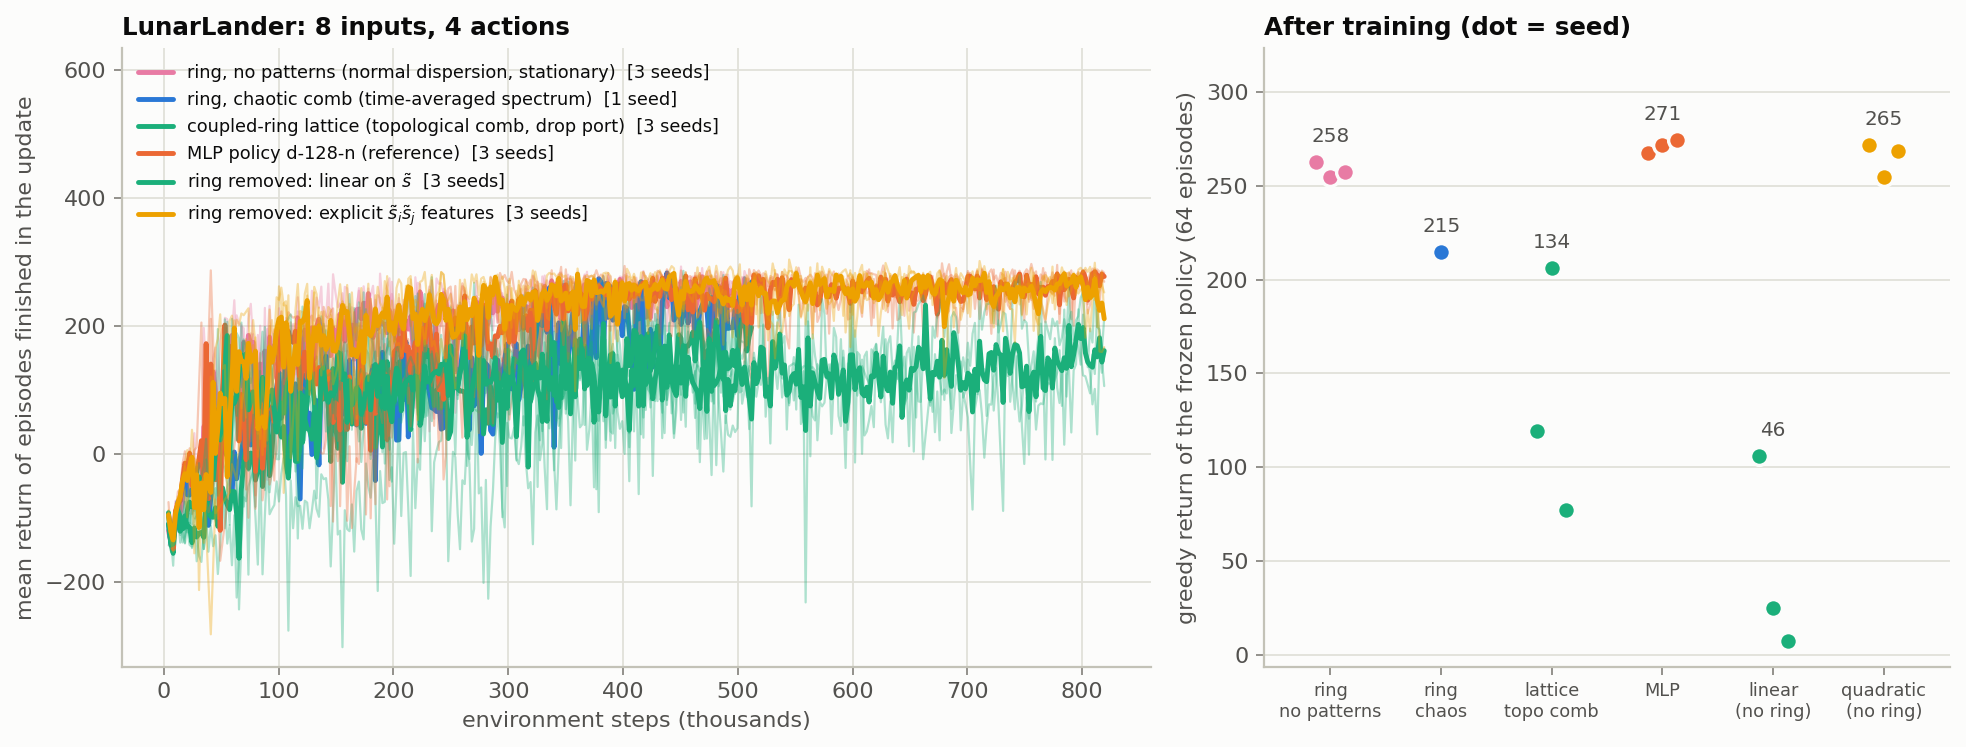
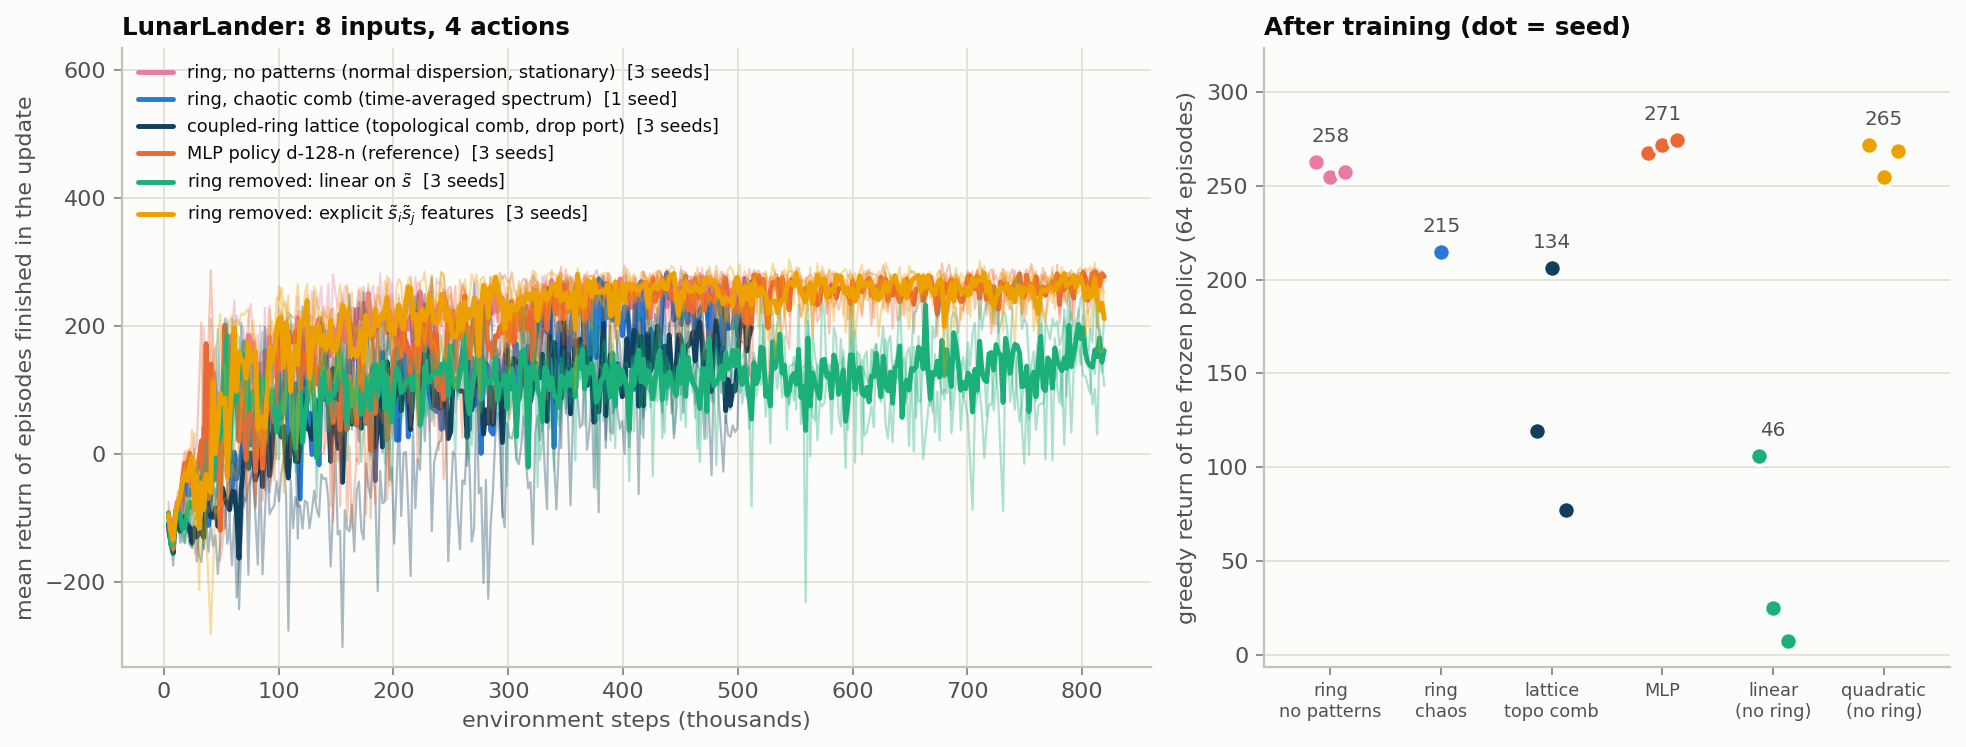
fix lattice colours (they collided with linear/poly2); training-curve panel
mr_topo had reused AQUA = linear and mr_topo_chaos YELLOW = poly2. New slots
NAVY #123f5c / BROWN #7a4f14, validated in OKLab against every co-plotted
colour (deltaE >= 19.6 normal, >= 15.4 under Machado CVD simulation; the
palette's 8 validated slots were all taken, originals left untouched).
animate_topo gains a static training-curve panel (raw + smoothed return, this
episode and the frozen eval marked); all four animations re-rendered.

diff --git a/animate_topo.py b/animate_topo.py
@@ -5,8 +5,10 @@ Animate a trained --regime topo policy: one greedy episode next to the physics t
     python animate_topo.py --env Pendulum-v1 ...
     python animate_topo.py --env LunarLander-v3 ...
 
-Three panels, one frame per control step:
+Five panels, one frame per control step:
   left   : the episode (cart+pole / pendulum / lunar lander) and the chosen action
+  second : the training curve of this seed (static -- the replayed episode sits at the END
+           of it), with this episode's return and the frozen evaluation marked
   middle : the 4x4 Hafezi lattice, two globally comparable encodings on one mark.
            SIZE   = each ring's absolute power sum_m |a_{r,m}|^2, log scale over 3 decades:
                     the static structure (edge transport from "in" to "out").
@@ -24,6 +26,8 @@ frozen calibration statistics, and one lane of the persistent lattice state.
 """
 
 import argparse
+import json
+import os
 
 import matplotlib.pyplot as plt
 import numpy as np
@@ -193,10 +197,20 @@ def panel_lunar(ax):
 
 PANELS = {"CartPole-v1": panel_cartpole, "Pendulum-v1": panel_pendulum, "LunarLander-v3": panel_lunar}
 
+# ------------------------------------------------------------------- training curve data
+# the result json has the full log + frozen evaluation; a checkpoint of a still-running
+# seed has the log up to its last save
+res_file = f"results/ppo/{short}/mr_{args.regime}_seed{args.seed}.json"
+rlog = json.load(open(res_file)) if os.path.exists(res_file) else c["log"]
+upd = rlog["updates"]
+lc_x = np.array([u["env_steps"] for u in upd]) / 1e3
+lc_y = np.array([u["mean_return"] for u in upd], dtype=float)
+lc_eval = rlog.get("eval", {}).get("mean")
+
 # ------------------------------------------------------------------------------- figure
 frames = range(0, T, args.every)
-fig, (ax_task, ax_lat, ax_spec, ax_comb) = plt.subplots(
-    1, 4, figsize=(15.0, 3.6), gridspec_kw=dict(width_ratios=[1.35, 1.0, 1.15, 1.1]))
+fig, (ax_task, ax_lc, ax_lat, ax_spec, ax_comb) = plt.subplots(
+    1, 5, figsize=(17.2, 3.6), gridspec_kw=dict(width_ratios=[1.35, 0.85, 1.0, 1.15, 1.1]))
 kind = "chaotic topological comb" if args.regime == "topo_chaos" else "topological frequency comb"
 fig.suptitle(f"{kind.capitalize()} (4×4 Hafezi lattice) as the {short} policy",
              x=0.02, ha="left", fontsize=12, fontweight="semibold")
@@ -204,6 +218,25 @@ draw_task = PANELS[args.env](ax_task)
 ax_task.set_title("the task: greedy trained policy", fontsize=10)
 step_txt = ax_task.text(0.02, 0.97, "", transform=ax_task.transAxes, fontsize=9,
                         color=ps.INK2, va="top")
+
+# training-curve panel (static: the replayed episode sits at the end of this curve)
+ok = ~np.isnan(lc_y)
+ax_lc.plot(lc_x[ok], lc_y[ok], color=ps.BLUE, lw=1, alpha=0.35)
+if ok.sum() > 7:                                                  # rolling mean over valid updates
+    w = 7
+    smooth = np.convolve(lc_y[ok], np.ones(w) / w, mode="valid")
+    ax_lc.plot(lc_x[ok][w - 1:], smooth, color=ps.BLUE, lw=2)
+ax_lc.axhline(ret, color=ps.ORANGE, lw=1.2, ls="--")
+ax_lc.text(0.03, ret, "this episode", color=ps.ORANGE, fontsize=7, va="bottom",
+           transform=ax_lc.get_yaxis_transform())
+if lc_eval is not None:
+    ax_lc.plot([lc_x[ok][-1]], [lc_eval], marker="o", ms=7, color=ps.INK2, ls="")
+    ax_lc.annotate(f"frozen eval {lc_eval:.0f}", (lc_x[ok][-1], lc_eval), xytext=(-4, -12),
+                   textcoords="offset points", ha="right", fontsize=7, color=ps.INK2)
+ax_lc.set_xlabel("env steps (thousands)", fontsize=9)
+ax_lc.set_ylabel("mean return", fontsize=9)
+ax_lc.tick_params(labelsize=8)
+ax_lc.set_title(f"training (seed {args.seed})", fontsize=10)
 
 # lattice panel: rings coloured by the deviation of their power from the episode mean
 div_cmap = LinearSegmentedColormap.from_list("div", [ps.BLUE, ps.SURFACE, ps.RED])
@@ -258,7 +291,7 @@ ax_comb.set_xticks([-hw, -hw // 2, 0, hw // 2, hw])
 ax_comb.set_xlabel("comb line $m$", fontsize=9)
 ax_comb.set_ylabel("standardised line power $z_m$", fontsize=9)
 ax_comb.tick_params(labelsize=8)
-ax_comb.set_title(f"what the policy reads ({ring.n_features} features)", fontsize=10)
+ax_comb.set_title(f"policy features ({ring.n_features} lines)", fontsize=10)
 fig.tight_layout(rect=(0, 0, 1, 0.93))
 
 

diff --git a/compare_policies.py b/compare_policies.py
@@ -38,8 +38,8 @@ RUNS = {"mr_chaos":   ("ring, chaotic comb (time-averaged spectrum)", ps.BLUE),
         "mr_rolls":   ("ring, Turing rolls (stationary)", ps.GREEN),
         "mr_soliton_eps0.02": ("ring, single soliton (stationary, $\\varepsilon$ = 0.012 $F_0$)", ps.VIOLET),
         "mr_soliton_eps0.02_nodet": ("ring, single soliton, noiseless detection", ps.RED),
-        "mr_topo":    ("coupled-ring lattice (topological comb, drop port)", ps.AQUA),
-        "mr_topo_chaos": ("coupled-ring lattice, chaotic comb ($F_0^2$ = 150)", ps.YELLOW)}
+        "mr_topo":    ("coupled-ring lattice (topological comb, drop port)", ps.NAVY),
+        "mr_topo_chaos": ("coupled-ring lattice, chaotic comb ($F_0^2$ = 150)", ps.BROWN)}
 PANELS = {"CartPole": [("Chaotic vs pattern-free ring vs no ring", ["mr_chaos", "mr_normal", "mr_topo", "mr_topo_chaos", "nn", "linear"]),
                        ("Ordered states of the ring", ["mr_normal", "mr_rolls", "mr_soliton_eps0.02", "mr_soliton_eps0.02_nodet"])],
           "Pendulum": [("Swing-up: a linear policy is not enough", ["mr_normal", "mr_chaos", "mr_topo", "mr_topo_chaos", "nn", "linear", "poly2"])],

diff --git a/microring/plot_style.py b/microring/plot_style.py
@@ -7,6 +7,10 @@ SURFACE, INK, INK2, MUTED, GRID, AXIS = "#fcfcfb", "#0b0b0b", "#52514e", "#89878
 BLUE, ORANGE, AQUA, YELLOW, MAGENTA, GREEN, VIOLET, RED = (
     "#2a78d6", "#eb6834", "#1baf7a", "#eda100", "#e87ba4", "#008300", "#4a3aa7", "#e34948")
 SERIES = [BLUE, ORANGE, AQUA, YELLOW, MAGENTA, GREEN, VIOLET, RED]
+# extension slots for the lattice policies: validated in OKLab (deltaE x100 >= 15 normal,
+# >= 8 under Machado protan/deutan/tritan simulation) against every colour they are
+# co-plotted with in compare_policies and against each other
+NAVY, BROWN = "#123f5c", "#7a4f14"
 # one-hue sequential ramp (light -> dark) for magnitude
 SEQ_BLUE = ["#cde2fb", "#9ec5f4", "#6da7ec", "#3987e5", "#256abf", "#184f95", "#0d366b"]
 
